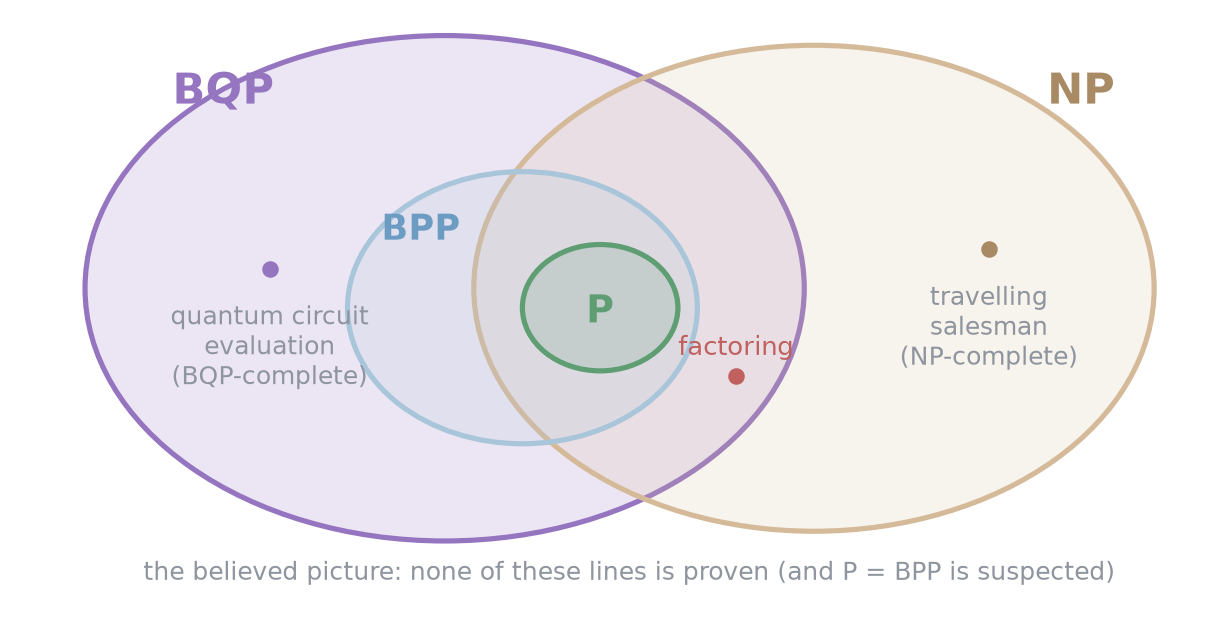
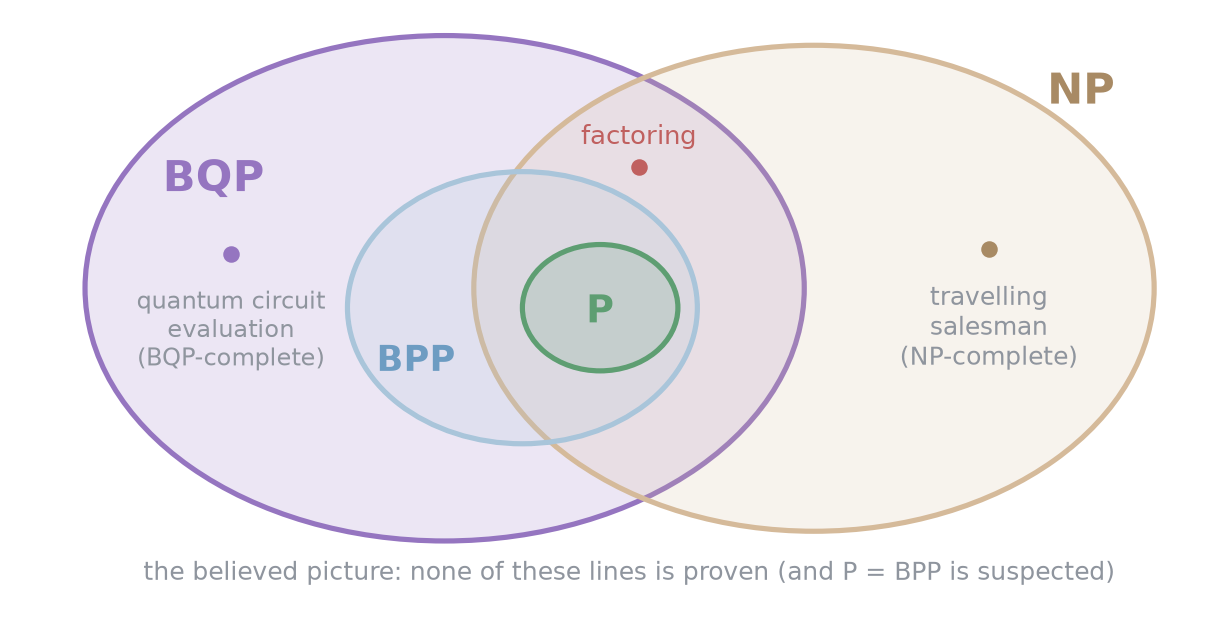
Add new images and markdown files for complexity classes
- Added Rotary_echo_animation.png and Spin_echo_animation.png to Course 4, Week 3, Images.
- Created NP-complete.md in Course 4, Week 4, Complexity classes, detailing NP-completeness and examples.
- Created Quantum vs classical complexity.md in Course 4, Week 4, Complexity classes, discussing BQP and quantum speedups.

diff --git a/Course 4/Week 4/Complexity classes/Complexity classes.md b/Course 4/Week 4/Complexity classes/Complexity classes.md
@@ -14,6 +14,31 @@ $$
 > [!eg]
 > $\text{DTIME}(100n^3)$ = the languages you can decide in at most $100n^3$ steps on an $n$ bit input. for $n=10$ that's $100\,000$ steps
 
+## time and memory
+a computer has two budgets: **time** (number of steps) and **memory** (bits it can store). they can scale very differently
+
+> [!eg] a made up problem
+>
+> | variables $n$ | memory | steps |
+> |---|---|---|
+> | 2 | 100 | 4 |
+> | 3 | 1000 | 9 |
+> | 4 | 10 000 | 16 |
+>
+> the steps grow like $n^2$ (polynomial), but the memory grows like $10^n$ (exponential): the memory is what kills it
+
+the class of problems that need only **polynomial memory**, however long they take, is **PSPACE**. it's huge: it contains everything below, including games like $n\times n$ chess and Go
+
+![[Complexity_hierarchy.png]]
+
+### efficient isn't the same as fast
+multiplying two $n$ bit numbers by long multiplication takes about $n^2$ steps: every bit of one times every bit of the other
+
+> [!eg] $3\times3=9$ in binary
+> $11\times11=11+110=1001$: two bits each, so $2^2=4$ bit products. with 3 bits it's $3^2=9$ bit products, and so on
+
+so multiplication is in P. but for $n=10^{100}$ bits that's $10^{200}$ steps, which would never finish. "efficient" only means it **scales** better: an exponential algorithm on the same input would need about $2^{10^{100}}$ steps
+
 ## the main classes
 
 | class | computer | must be right | in time |
@@ -22,6 +47,7 @@ $$
 | **BPP** | randomized ([[Randomized and quantum computation]]) | with probability $\ge\frac23$ | polynomial |
 | **BQP** | quantum (uniform circuit family) | with probability $\ge\frac23$ | polynomial |
 | **[[NP]]** | nondeterministic ([[Nondeterminism]]) | a "yes" has a short proof you can check | polynomial |
+| **PSPACE** | deterministic | always | any, but polynomial **memory** |
 
 ^class-table
 
@@ -29,11 +55,11 @@ $$
 
 ## how they fit together
 $$
-\text{P}\subseteq\text{BPP}\subseteq\text{BQP}\qquad\text{P}\subseteq\text{NP}
+\text{P}\subseteq\text{BPP}\subseteq\text{BQP}\subseteq\text{PSPACE}\qquad\text{P}\subseteq\text{NP}\subseteq\text{PSPACE}
 $$
 ^containments
 
-**P** is the weakest: everything else contains it. a random computer can ignore its random bits (P ⊆ BPP), and a quantum computer can simulate coin flips (BPP ⊆ BQP). but the two branches, NP and BQP, look like they may be **incomparable**: problems in NP that aren't in BQP, and the other way round
+**P** is the weakest: everything else contains it. a random computer can ignore its random bits (P ⊆ BPP), and a quantum computer can simulate coin flips (BPP ⊆ BQP). at the top, PSPACE contains them all: you can try every certificate one by one, or add up a quantum circuit's amplitudes one path at a time, reusing the same polynomial memory ([[Quantum vs classical complexity]]). but the two branches, NP and BQP, look like they may be **incomparable**: problems in NP that aren't in BQP, and the other way round
 
 ![[Complexity_class_map.png]]
 
@@ -63,14 +89,16 @@ that's crude: in practice $n^2$ vs $n^3$ matters a lot. but it makes the classes
 > ② an algorithm takes $2^{n/100}$ steps. is it polynomial? which is bigger at $n=1000$, $2^{n/100}$ or $n^2$? at $n=10\,000$?
 > ③ why is P ⊆ BPP?
 > ④ if someone proved BPP = BQP, what would it mean for quantum computers?
+> ⑤ in the made up problem above, how much memory do 10 variables need, and how many steps?
 
 > [!answer]-
 > ① yes ($n^2<n^3$, so the same machine works) and yes ($c=2$)
 > ② no, it's exponential. $n=1000$: $2^{10}=1024$ vs $10^6$, so $n^2$ is bigger. $n=10\,000$: $2^{100}\approx10^{30}$ vs $10^8$: the exponential wins eventually, which is all the classes care about
 > ③ a deterministic algorithm is a randomized one that never reads its random bits, and it's right with probability 1 ≥ $\frac23$
 > ④ every problem a quantum computer solves in polynomial time could also be solved by a classical randomized computer in polynomial time: no exponential [[Quantum advantage|quantum advantage]] for yes/no problems (polynomial speed ups like Grover's could still exist)
+> ⑤ memory $10^{10}$, steps $10^2=100$. the steps are trivial, the memory is ten billion units
 
-next: [[NP]], then [[Quantum circuit evaluation]]
+next: [[NP]], then [[NP-complete]], [[Quantum circuit evaluation]] and [[Quantum vs classical complexity]]
 
 see also [[Big O notation]], [[Nondeterminism]], [[Randomized and quantum computation]]
 

diff --git a/Course 4/Week 4/Complexity classes/NP-complete.md b/Course 4/Week 4/Complexity classes/NP-complete.md
@@ -1,0 +1,71 @@
+#complexity #complexity_class #NP
+the **hardest** problems in [[NP]]: solve any one of them fast and you've solved all of NP fast. part of [[Complexity classes]]
+
+## the definition
+a problem is **NP-complete** if
+- it's **in NP**: a yes answer has a short certificate you can check in polynomial time
+- it's **NP-hard**: **every** NP problem can be turned into it by a polynomial time reduction
+
+this is the same idea as BQP-complete in [[Quantum circuit evaluation#why it's BQP-complete]], just for NP
+
+```mermaid
+flowchart TD
+    A["any NP problem"] -- "polynomial time reduction" --> B["an NP-complete problem"]
+    B -- "suppose it has a polynomial algorithm" --> C["then every NP problem does:<br/>P = NP"]
+```
+
+> [!important] all or nothing
+> ==if a single NP-complete problem is in P, then P = NP==. decades of searching have turned up no such algorithm, which is the main reason people believe P ≠ NP
+
+## examples
+
+| problem | question | certificate |
+|---|---|---|
+| circuit SAT | does some input make this circuit output 1? | that input |
+| travelling salesman | is there a round trip through all the cities, each once, shorter than $k$ miles? | the route |
+| $n\times n$ Sudoku | can this grid be filled in? | the filled grid |
+| map colouring | can the map be coloured with 3 colours so neighbours always differ? | the colouring |
+| box packing | do these boxes fit into $k$ bins? | which bin each box goes in |
+
+circuit SAT is the original one: it's exactly the OR over certificates in [[NP#^np-or]], with the verifier written as a circuit. lots of planning and scheduling problems turn out to be NP-complete, which is why NP gets so much attention
+
+## why brute force is hopeless
+for travelling salesman with $n$ cities, fix the start city and ignore the direction: there are $\frac{(n-1)!}2$ round trips to try
+
+| cities | round trips |
+|---|---|
+| 10 | 181 440 |
+| 20 | $6\times10^{16}$ |
+| 30 | $4\times10^{30}$ |
+
+$n!$ grows even faster than $2^n$: by Stirling's formula $n!\approx\sqrt{2\pi n}\left(\frac ne\right)^n$. smarter algorithms exist (dynamic programming takes about $n^22^n$ steps), but every known one is still exponential
+
+## not everything in NP is NP-complete
+if P ≠ NP, some problems sit **in between**: in NP, not in P, but not NP-complete either. the two famous candidates:
+- **factoring**: in NP (the factors are the certificate), no fast classical algorithm known, but not believed to be NP-complete
+- **graph isomorphism**: are two networks the same up to relabelling the nodes?
+
+this matters for quantum computers: [[Shor's algorithm]] factors fast, but since factoring isn't NP-complete, that doesn't hand them the rest of NP ([[Quantum vs classical complexity]])
+
+![[Complexity_hierarchy.png]]
+
+> [!extra]- can a quantum computer solve NP-complete problems?
+> nobody knows a way. [[Grover's algorithm]] speeds up brute force search from $2^n$ to about $2^{n/2}$ tries, but that's still exponential. the big quantum speed ups use a hidden structure in the problem (like the period in factoring), and NP-complete problems don't seem to have one. so people believe NP-complete problems are **not** in BQP
+
+> [!exercise] try these
+> ① you find a polynomial algorithm for 3-colouring maps. what happens to travelling salesman?
+> ② how many round trips are there for 12 cities?
+> ③ circuit SAT with 100 input bits: about how many tries does brute force need? and Grover?
+> ④ factoring is in NP, and Shor's algorithm puts it in BQP. why doesn't that show NP ⊆ BQP?
+
+> [!answer]-
+> ① it becomes polynomial too: reduce travelling salesman to 3-colouring (polynomial time), then run your algorithm. in fact all of NP would be in P, so P = NP
+> ② $\frac{11!}2=19\,958\,400$
+> ③ brute force: up to $2^{100}\approx1.3\times10^{30}$. Grover: about $2^{50}\approx10^{15}$, much better but still far too many
+> ④ factoring isn't known to be NP-complete, so other NP problems can't be reduced to it. only an NP-complete problem in BQP would pull all of NP in
+
+previous: [[NP]] · next: [[Quantum circuit evaluation]]
+
+see also [[Nondeterminism]], [[Big O notation]]
+
+week hub: [[Computational complexity]]

diff --git a/Course 4/Week 4/Complexity classes/Quantum vs classical complexity.md b/Course 4/Week 4/Complexity classes/Quantum vs classical complexity.md
@@ -1,0 +1,49 @@
+#complexity #complexity_class #BQP
+where **BQP** (what a quantum computer can do efficiently) sits among the classical classes, and which problems get a real quantum speed up. part of [[Complexity classes]]
+
+## the picture
+![[Complexity_hierarchy.png]]
+
+- **P ⊆ BQP**: a quantum computer can do anything a classical one can, using reversible gates
+- **BQP reaches outside P**: factoring and discrete logarithms are in BQP ([[Shor's algorithm]]), but no polynomial classical algorithm for them is known
+- **BQP doesn't seem to contain the NP-complete problems** ([[NP-complete]])
+- **BQP ⊆ PSPACE**: a classical computer can find a quantum circuit's output probability by adding up the amplitudes **one path at a time**, reusing the same memory. it takes exponential time but only polynomial memory. so a quantum computer never solves anything outside PSPACE
+
+the full chain is in [[Complexity classes#^containments]]
+
+## where the speed ups come from
+> [!important] structure
+> ==quantum computers win big when a problem has a mathematical structure they can exploit==, eg. the hidden period in factoring that the [[Quantum Fourier Transform]] picks out. without that structure the best you usually get is Grover's square root
+
+| problem | best classical | quantum | speed up |
+|---|---|---|---|
+| factoring an $n$ bit number | about $e^{c\,n^{1/3}(\log n)^{2/3}}$ (number field sieve) | polynomial ([[Shor's algorithm]]) | exponential (believed) |
+| search $N$ unsorted items | $\frac N2$ tries on average, $N$ at worst | about $\frac\pi4\sqrt N$ ([[Grover's algorithm]]) | quadratic |
+| NP-complete, $n$ bits (eg. circuit SAT) | about $2^n$ | about $2^{n/2}$ with Grover | quadratic, still exponential |
+| multiplying two numbers | about $n^2$ | no better | none |
+
+> [!eg] searching a million items
+> classically about $500\,000$ checks on average. Grover needs about $\frac\pi4\sqrt{10^6}\approx785$. a huge saving, but only a **polynomial** one: it doesn't move a problem from one class to another
+
+## none of it is proven
+- nobody has proven factoring isn't in P. a clever classical algorithm could exist: unlikely, but not impossible
+- even P ≠ BQP is unproven, and it would be very hard to prove: since P ⊆ BQP ⊆ PSPACE, proving P ≠ BQP would also prove **P ≠ PSPACE**, a famous open problem
+- so every claim of [[Quantum advantage|quantum advantage]] rests on the best **known** classical algorithms plus conjectures. that's why demonstrations ([[Quantum supremacy]]) pick problems where the evidence is strongest, like sampling from random circuits
+
+> [!exercise] try these
+> ① about how many Grover iterations does it take to search $10^{12}$ items? how many classical checks on average?
+> ② why can't a quantum computer efficiently solve a problem that needs more than polynomial memory on a classical computer?
+> ③ someone finds a fast classical algorithm for factoring. does that prove BPP = BQP?
+> ④ a company says its quantum computer solves an NP-complete problem exponentially faster. why be sceptical?
+
+> [!answer]-
+> ① $\frac\pi4\sqrt{10^{12}}=\frac\pi4\times10^6\approx7.9\times10^5$ iterations, vs about $5\times10^{11}$ classical checks
+> ② BQP ⊆ PSPACE: anything a quantum computer does in polynomial time, a classical computer can also do with polynomial memory (slowly). so a problem that really needs more memory can't be in BQP
+> ③ no. factoring would just stop being an example of a quantum speed up. BPP = BQP needs a fast classical algorithm for a BQP-complete problem like [[Quantum circuit evaluation]]
+> ④ there's no known quantum algorithm that does it, and NP-complete problems don't seem to have the structure quantum speed ups need. Grover alone only gives a square root, which is still exponential
+
+previous: [[Quantum circuit evaluation]]
+
+see also [[Promise, sampling and relation problems]], [[Quantum volume]]
+
+week hub: [[Computational complexity]]

diff --git a/Course 4/Week 4/Complexity classes/NP.md b/Course 4/Week 4/Complexity classes/NP.md
@@ -12,7 +12,12 @@ NP = the problems you can **verify** in polynomial time, but only when the answe
 > ![[TSP_certificate.png]]
 >
 > - **yes**: the certificate is just the list of cities in order. check that each city appears once and add up the miles: fast
-> - **no**: "there's no route under 1000 miles" might have **no** short proof. you'd seemingly have to rule out every route
+> - **no**: "there's no route under 1000 miles" might have **no** short proof. you'd seemingly have to rule out every route, and with $n$ cities there are $\frac{(n-1)!}2$ of them ([[NP-complete#why brute force is hopeless]])
+
+> [!eg] factoring
+> finding the prime factors of a big number seems hard. but given the factors, checking them is **one multiplication**, about $n^2$ steps for $n$ bit numbers
+
+**P ⊆ NP**: if you can **solve** a problem fast, you can verify it fast too. just solve it and ignore the certificate
 
 ## the definition: one giant OR
 $f$ is in NP if it can be written as
@@ -42,8 +47,8 @@ flowchart TD
 - **nondeterminism**: a nondeterministic computer could check **all** certificates at once and take the OR, exactly the model in [[Nondeterminism]] (the choices along an accepting branch are the certificate)
 - **proofs**: complexity theory asks what we can compute quickly, but also **what can be proven**. NP is a statement about **proof complexity**: which statements have short proofs
 
-> [!extra]- NP-complete
-> some NP problems are the **hardest** in NP: every NP problem can be turned into them with a polynomial time reduction, so a fast algorithm for one gives a fast algorithm for all. these are [[NP-complete]], eg. travelling salesman, and the original one, **circuit SAT**: given a classical circuit, is there an input that makes it output 1? (that's the OR above, with $g$ = the circuit). many planning and optimization problems are naturally NP-complete, which is why NP gets so much attention. the quantum version is [[Quantum circuit evaluation]]
+## the hardest ones
+some NP problems are the **hardest** in NP: a fast algorithm for one would give a fast algorithm for all of them. these are the [[NP-complete]] problems, eg. travelling salesman and **circuit SAT** (the OR above, with $g$ = a circuit)
 
 > [!exercise] try these
 > ① for "does this number $N$ have a factor between 2 and $\sqrt N$?", what's a certificate for yes, and how do you check it?
@@ -57,7 +62,7 @@ flowchart TD
 > ③ no: a yes for this question means "no route works", and there's no known short proof of that. (it's in co-NP, the "no-side" version)
 > ④ the checker only has polynomial time, so it can only read a polynomial number of bits. an exponentially long certificate couldn't even be read
 
-previous: [[Complexity classes]] · next: [[Quantum circuit evaluation]]
+previous: [[Complexity classes]] · next: [[NP-complete]]
 
 see also [[Nondeterminism]], [[Grover's algorithm]]
 

diff --git a/Welcome.md b/Welcome.md
@@ -59,7 +59,7 @@ flowchart TD
 - **week 1** → [[Detecting and correcting errors]] (hub): [[Bit flip code]] and the threshold, [[Parity measurement]], [[Decoding the bit flip code]], [[Phase flip code]], [[Shor code]], [[Computational capacity]], [[Triple modular redundancy]] (all the formulas: [[Course 4 Week 1 formulas]])
 - **week 2** → [[Principles of fault tolerance]] (hub): [[Threshold theorem]] (and the classical thresholds), [[Fault-tolerant NAND gate]] ($15p^2$, $p_{th}=\frac1{15}$), [[Cost of fault tolerance]]; quantum: [[Fault-tolerant quantum computing]], [[Stabilizer codes]], [[Transversal gates on stabilizer codes]], [[From Hamming to Steane]], [[Steane code circuit]], [[Fault-tolerant measurement]], [[Quantum threshold estimate]], [[Recursive fault tolerance]] (doubly exponential), [[Fault-tolerant procedure]] (one failure, at most one error per block), [[Transversal gates]] (all the formulas: [[Course 4 Week 2 formulas]])
 - **week 3** → [[Quantum error mitigation]] (hub): [[Correcting continuous errors]] (errors are linear), [[Dephasing and the filter function]] ($T_2$, the lacrosse picture, pulses filter the noise), [[Dynamical decoupling]] (Ramsey, spin echo, CPMG, noise spectroscopy), [[Rotary echo]], then the [[Surface code]] ([[Surface code logical operations|logical operations]], [[Magic state distillation]], [[Decoding the surface code|decoding]]) (all the formulas: [[Course 4 Week 3 formulas]])
-- **week 4** → [[Computational complexity]] (hub): [[Languages]] (yes/no problems), [[Promise, sampling and relation problems]], [[Circuit model]] (width, depth, size), [[Randomized and quantum computation]], [[Nondeterminism]], [[Complexity classes]] (P, BPP, BQP), [[NP]] (short proofs), [[Quantum circuit evaluation]] (BQP-complete)
+- **week 4** → [[Computational complexity]] (hub): [[Languages]] (yes/no problems), [[Promise, sampling and relation problems]], [[Circuit model]] (width, depth, size), [[Randomized and quantum computation]], [[Nondeterminism]], [[Complexity classes]] (P, BPP, BQP), [[NP]] (short proofs), [[NP-complete]], [[Quantum circuit evaluation]] (BQP-complete), [[Quantum vs classical complexity]] (where BQP sits)
 ### Math
 - [[Math]] → complex numbers, Dirac notation, probability, modular arithmetic, Hilbert spaces, eigenvalues, tensor products, the trace; for the IISc notes: [[Logarithms and exponentials]], [[Straight line fits]], [[Peak shapes and FWHM]]
 ### Quantum Computation and Quantum Information (the textbook)

diff --git a/Course 4/Week 4/Computational complexity.md b/Course 4/Week 4/Computational complexity.md
@@ -23,13 +23,15 @@ flowchart TD
 - [[Randomized and quantum computation]] → random gates or random input bits, a classical Turing machine writing a quantum circuit for each $n$, probabilities average but amplitudes cancel
 - [[Nondeterminism]] → accept if **any** of $2^n$ branches accepts: physically unreasonable, but where [[NP]] comes from
 ### complexity classes
-- [[Complexity classes]] → DTIME, **P ⊆ BPP ⊆ BQP** and P ⊆ NP, the believed map, why P = BPP is suspected, why only polynomial vs exponential matters
-- [[NP]] → yes answers have short proofs you can check: $f(x)=\bigvee_yg(x,y)$, travelling salesman
+- [[Complexity classes]] → DTIME, time vs memory (PSPACE), efficient isn't fast, **P ⊆ BPP ⊆ BQP ⊆ PSPACE** and P ⊆ NP, the believed map, why P = BPP is suspected, why only polynomial vs exponential matters
+- [[NP]] → yes answers have short proofs you can check: $f(x)=\bigvee_yg(x,y)$, travelling salesman, factoring, P ⊆ NP
+- [[NP-complete]] → the hardest NP problems: one in P means P = NP; Sudoku, map colouring, circuit SAT; $(n-1)!/2$ routes; factoring isn't one
 - [[Quantum circuit evaluation]] → the BQP-complete problem: is the output mostly 1 or mostly 0? (a promise problem); in BPP only if BPP = BQP
+- [[Quantum vs classical complexity]] → where BQP sits: factoring yes, NP-complete probably not, BQP ⊆ PSPACE; exponential vs Grover's quadratic speed ups; nothing proven
 
-![[Complexity_class_map.png]]
+![[Complexity_hierarchy.png]]
 
-coming up: [[Turing machine]], [[NP-complete]], [[Quantum supremacy]]
+coming up: [[Turing machine]], [[Quantum supremacy]]
 
 see also [[Big O notation]], [[Quantum volume]]
 

diff --git a/Course 4/Week 4/Complexity classes/Quantum circuit evaluation.md b/Course 4/Week 4/Complexity classes/Quantum circuit evaluation.md
@@ -70,7 +70,7 @@ so if (as people believe) BPP ≠ BQP, there's **no efficient classical algorith
 > ③ for the budget alone, $n'^2\ge n^6$ means $n'\ge n^3$. but just listing $n^6$ gates already makes the description about $n^6$ long, and then the budget is $n'^2\approx n^{12}$: way more than needed, so it's automatically fine
 > ④ a fast classical simulator would put this problem in BPP, and then (since every BQP problem reduces to it) all of BQP would be in BPP: BPP = BQP, which people believe is false
 
-previous: [[NP]]
+previous: [[NP-complete]] · next: [[Quantum vs classical complexity]]
 
 see also [[Promise, sampling and relation problems]], [[Quantum volume]], [[Quantum supremacy]]
 
